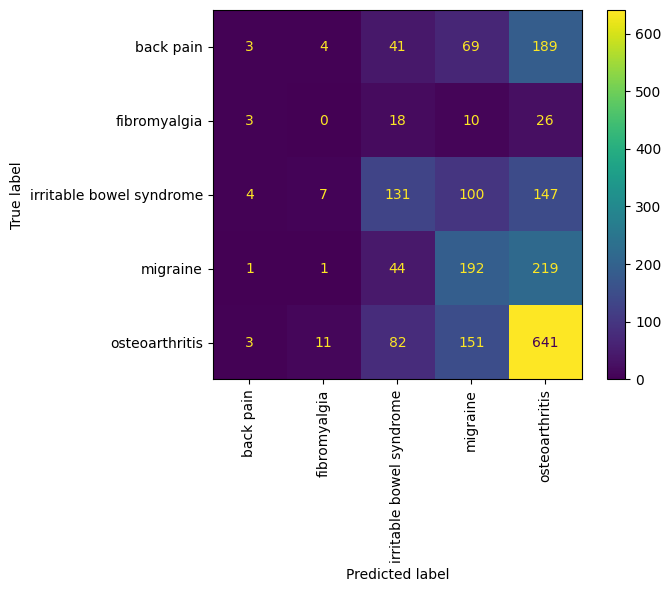
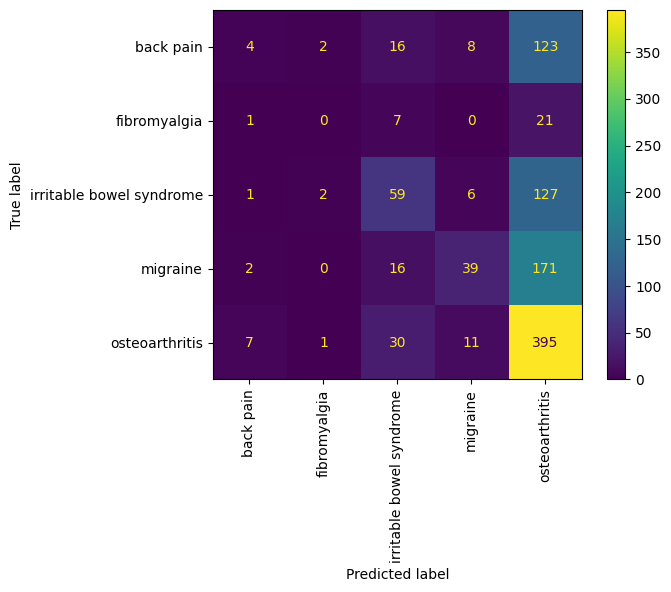
importance plot

diff --git a/clean_questions.py b/clean_questions.py
@@ -41,6 +41,7 @@ def load_qscode(questionnaire='all'):
     """load questionnaire code (lifestyle/mental/cognitive/digestive)"""
     base_dir = './bbk_codes/'
     questionnaire_ls = ['lifestyle','mental','cognitive','digestive']
+    # questionnaire_ls = ['lifestyle','mental','cognitive']
     if (questionnaire!='all') and (questionnaire in questionnaire_ls):
         df_qs = pd.read_csv(base_dir+questionnaire+'_code.csv')
     elif questionnaire=='all':
@@ -162,33 +163,67 @@ def replace_specific(df):
                 df_copy[c].replace(np.nan, 1., inplace=True) # treat as abandoned
     return df_copy
 
-def basic_dtree(df, test_size=0.5, save_plot=True):
-    """basic decision tree classification"""
+def basic_classify(df, classifier='dtree', test_size=0.5, random_state=10, save_plot=True, num_importance=20):
+    """basic classification"""
     from sklearn.metrics import confusion_matrix, classification_report
     from sklearn.model_selection import train_test_split
     
     y = df['label']
-    X = df.drop('label', axis=1)
+    X = df.drop(['label','eid'], axis=1)
     # dividing X, y into train and test data
-    X_train, X_test, y_train, y_test = train_test_split(X, y, test_size=test_size, random_state=0, stratify=y)
+    X_train, X_test, y_train, y_test = train_test_split(X, y, test_size=test_size, random_state=random_state, stratify=y)
     
-    from sklearn.tree import DecisionTreeClassifier
-    clf = DecisionTreeClassifier(max_depth = 5).fit(X_train, y_train)
-    predicted = clf.predict(X_test)
+    if classifier == 'dtree':
+        from sklearn.tree import DecisionTreeClassifier
+        clf = DecisionTreeClassifier(max_depth=5).fit(X_train, y_train)
+    elif classifier == 'rforest':
+        from sklearn.ensemble import RandomForestClassifier
+        clf = RandomForestClassifier(max_depth=5).fit(X_train, y_train)
+    # predict test set
+    y_test_predicted = clf.predict(X_test)
     
     # creating a confusion matrix
     from sklearn.metrics import ConfusionMatrixDisplay
-    cm = confusion_matrix(y_test, predicted)
+    cm = confusion_matrix(y_test, y_test_predicted)
     cm_display = ConfusionMatrixDisplay(cm, display_labels=clf.classes_).plot()
     if save_plot:
         plt.xticks(rotation=90)
-        plt.savefig('./figs/dtree_cm.png', bbox_inches='tight')
+        plt.savefig(f'./figs/{classifier}_cm.png', bbox_inches='tight')
 
+    # plot permutation importantce
+    from sklearn.inspection import permutation_importance
+    plot_num = num_importance
+    result = permutation_importance(clf, X_test, y_test, n_repeats=10, random_state=42, n_jobs=2)
+    # result = permutation_importance(clf, X_train, y_train, n_repeats=10, random_state=42, n_jobs=2)
+    sorted_idx = result.importances_mean.argsort()
+    question_labels = match_question(X_test.columns[sorted_idx[-plot_num:]])
+    fig, ax = plt.subplots(figsize=(5,5))
+    ax.boxplot(result.importances[sorted_idx[-plot_num:]].T, vert=False, labels=question_labels)
+    ax.set_title("Permutation Importances (test set)")
+    # ax.set_title("Permutation Importances (train set)")
+    if save_plot:
+        plt.savefig(f'./figs/{classifier}_importance.png', bbox_inches='tight')
+
+    # calculate accuracy / auc
     from sklearn.metrics import roc_auc_score
     auc = roc_auc_score(y_test, clf.predict_proba(X_test), multi_class='ovr')
     print(f"Classification report for classifier {clf}:\n"
-        f"{classification_report(y_test, predicted)}\n"
-        f"ROC AUC={auc}")
+        f"{classification_report(y_test, y_test_predicted)}\n"
+        f"ROC AUC={auc:.4f}, train accuracy={clf.score(X_train, y_train):.4f}, test accuracy={clf.score(X_test, y_test):.4f}")
+
+def match_question(q_codes):
+    """backward search questions to match question code"""
+    df_qs = load_qscode(questionnaire='all')
+    question_ls = []
+    for c in q_codes:
+        code = int(c.split('-')[0])
+        question = df_qs[df_qs['code']==code]['Field title'].values
+        question_ls.append(question)
+    return question_ls
+
+# # running
+# if __name__=="__main__":
+#     match_question(['20403-0.0','20403-0.0'])
 
 # running
 if __name__=="__main__":
@@ -201,10 +236,12 @@ if __name__=="__main__":
     # load questionnaire codes
     # questionnaire_ls = ['lifestyle','mental','cognitive','digestive','all']
     questionnaire_ls = ['all']
+    question_visits = [0,1,2]
+    # question_visits = [2]
     for q in questionnaire_ls:
         df_qs = load_qscode(q)
         # extract questionnaire of interest
-        df_qs = extract_qs(df_subjects, df_questionnaire=df_qs)
+        df_qs = extract_qs(df_subjects, df_questionnaire=df_qs, visits=question_visits)
         # exclude multi diseases subjects
         df_exclude, df_label_exclude = exclude_multidisease(df_qs, df_disease_label)
 
@@ -212,10 +249,12 @@ if __name__=="__main__":
     label_exclude = df_label_exclude.idxmax(axis=1)
     dff = df_exclude.merge(label_exclude.rename('label'), left_index=True, right_index=True)
     # impute
-    print(dff.shape)
-    dff_imputed = impute_qs(dff, freq_fill='median', nan_percent=0.)
-    print(dff_imputed.shape)
+    print(f'Questionnaires from visits {question_visits} shape={dff.shape}')
+    dff_imputed = impute_qs(dff, freq_fill='median', nan_percent=0.9)
+    print(f'After imputation shape={dff_imputed.shape}')
     dff_imputed = dff_imputed.dropna(how='all', axis=1)
-    print(dff_imputed.shape)
+    print(f'Drop all nan cols shape={dff_imputed.shape}')
     # basic classification
-    basic_dtree(dff_imputed, test_size=0.5, save_plot=True)
+    classifiers = ['dtree', 'rforest']
+    for c in classifiers:
+        basic_classify(dff_imputed, classifier=c, random_state=100, test_size=0.25, save_plot=True, num_importance=10)
